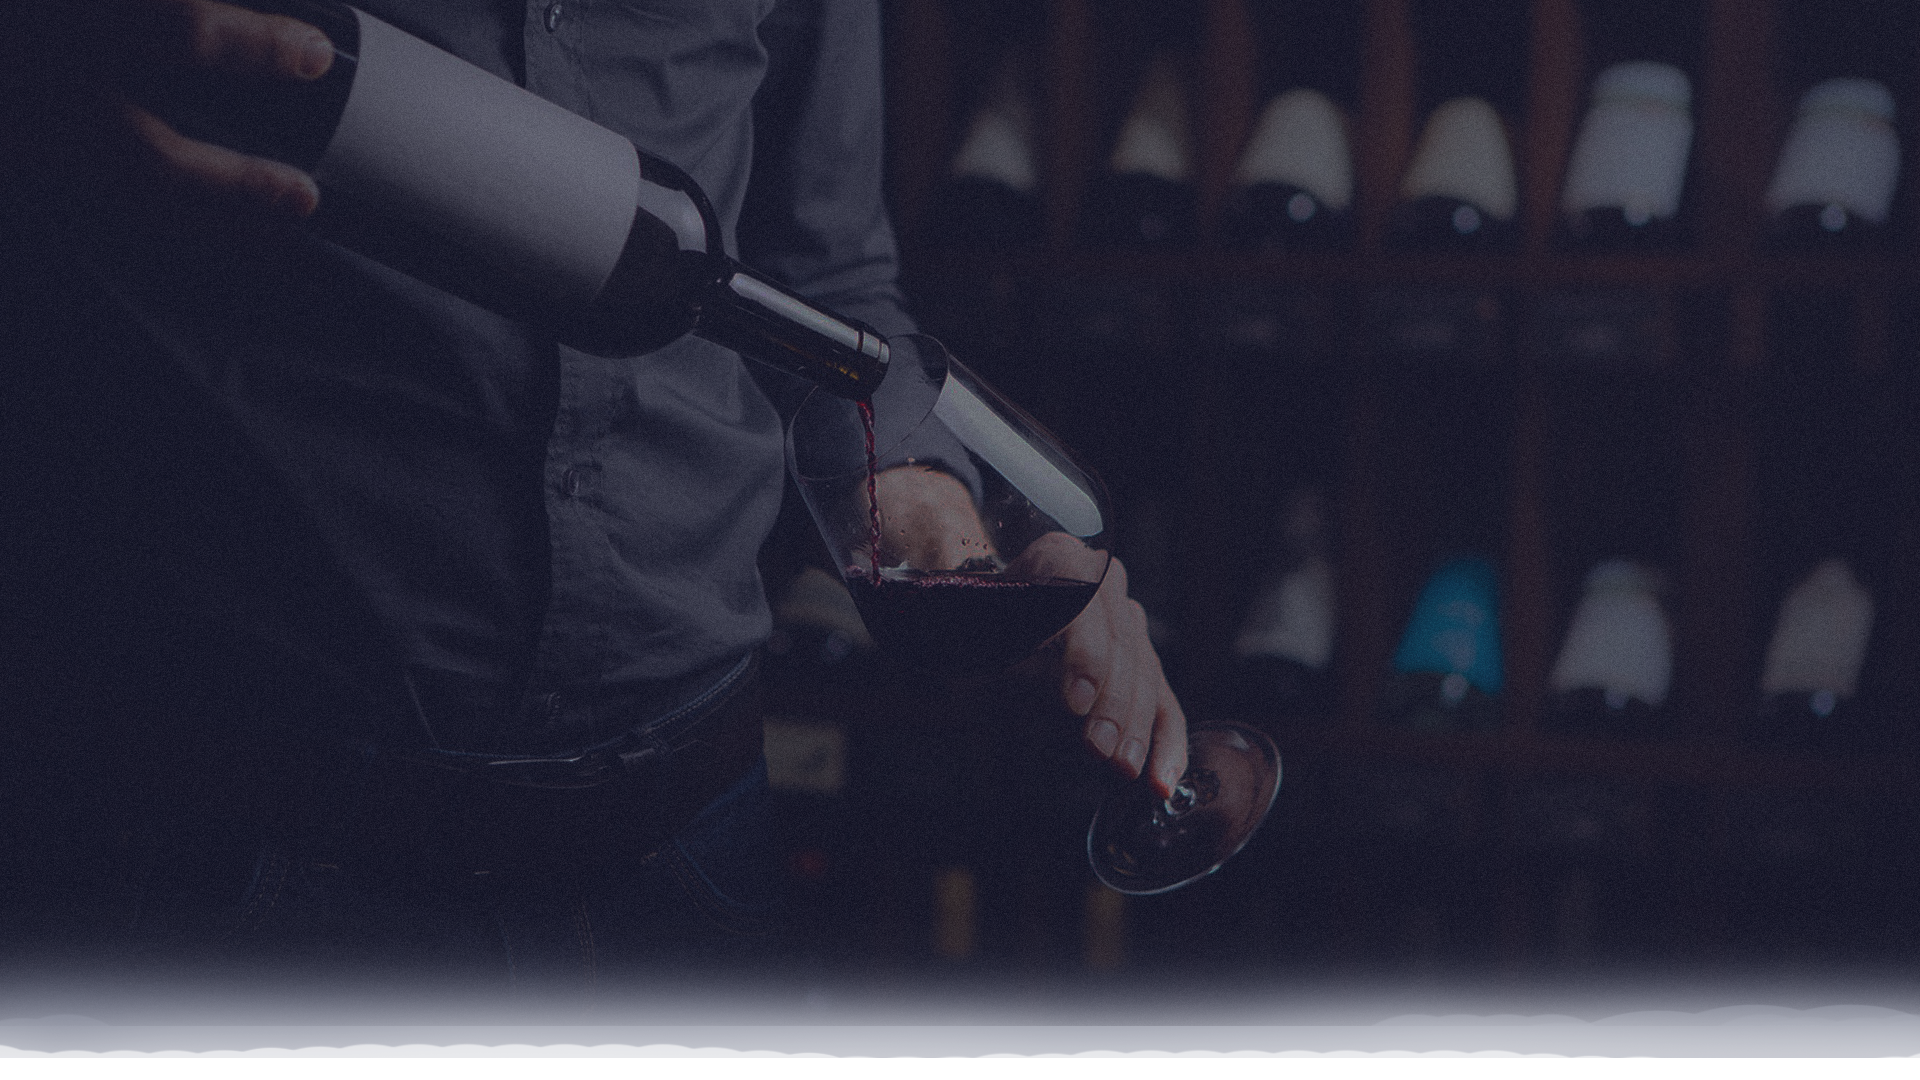
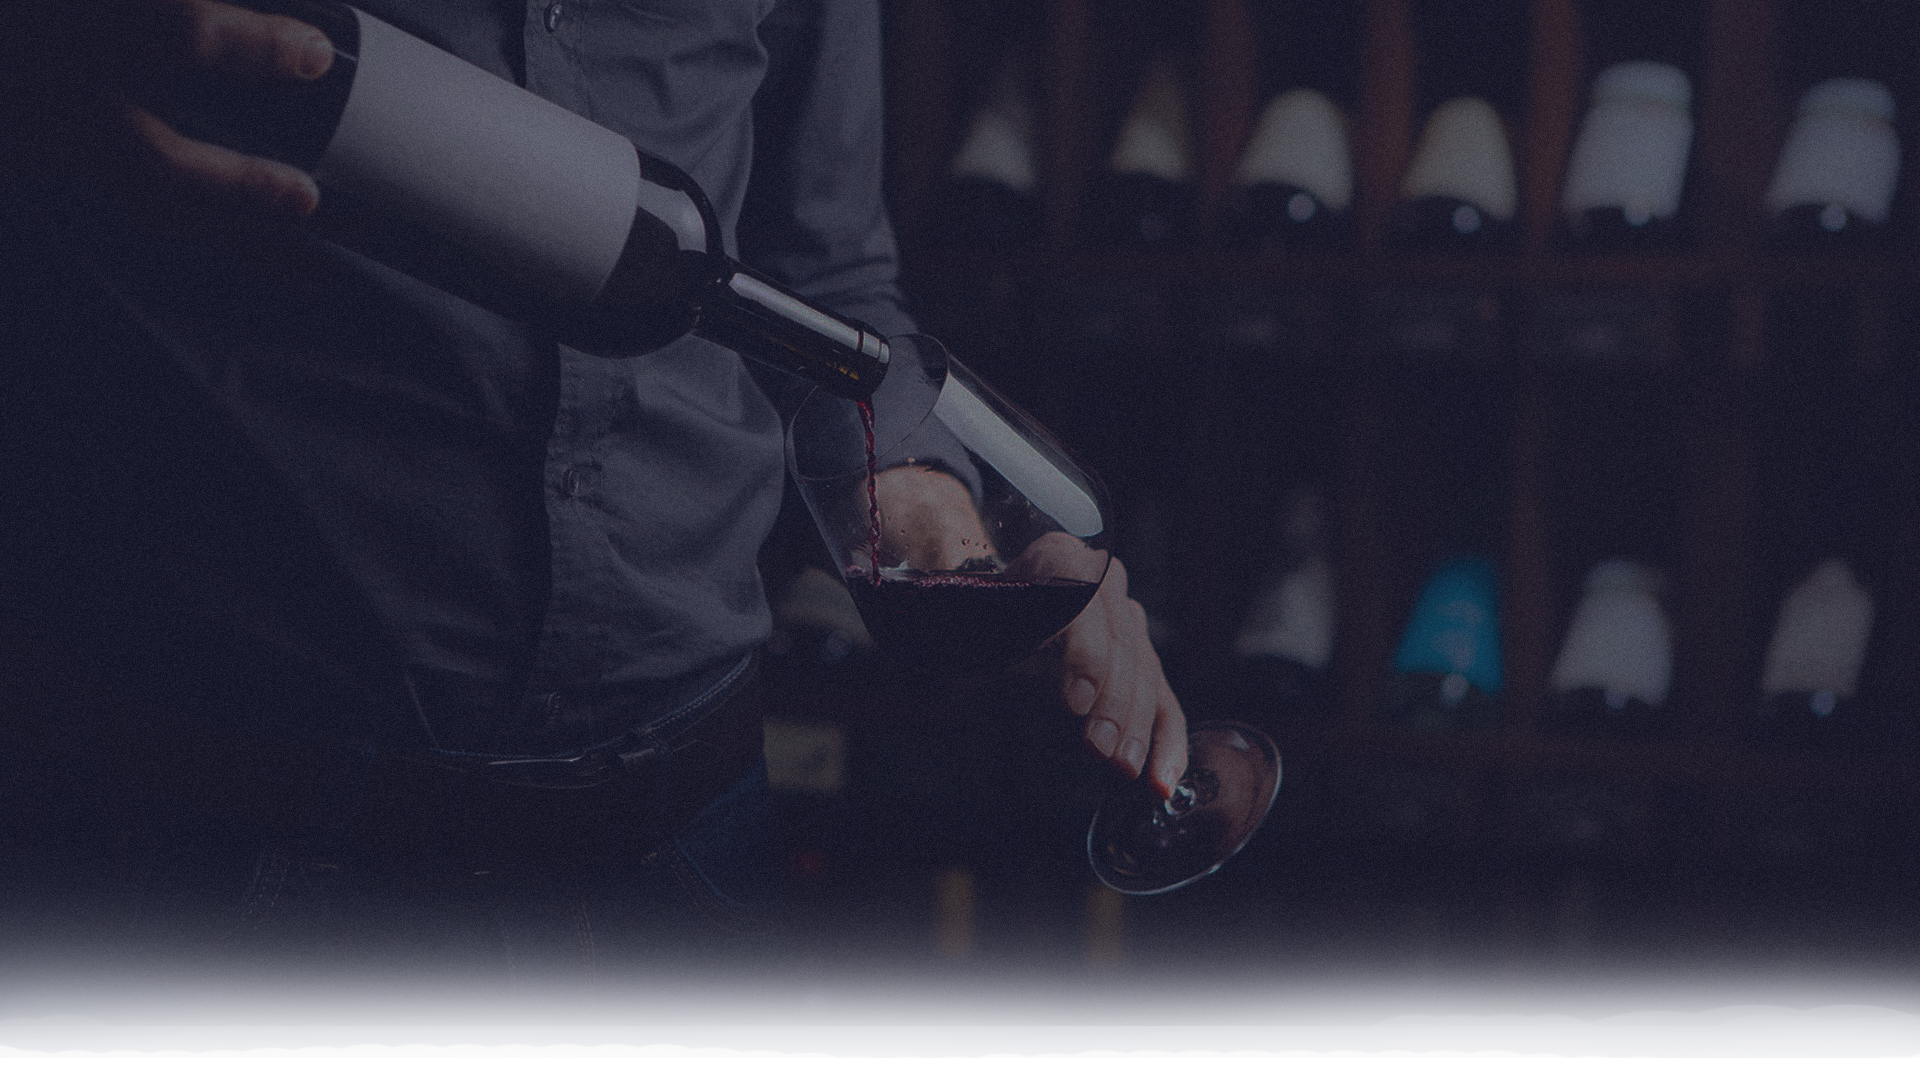
Adding smooth transition dependency and resolving brands component

Changed region(s): [[0.0, 0.8556, 1.0, 0.9778]]

diff --git a/src/pages/Home/brands.js b/src/pages/Home/brands.js
@@ -49,35 +49,35 @@ const brandWinesData = {
             id: 1,
             name: "Domaine Boisson 2019 'Pierre'",
             price: 399.85,
-            imageUrl: "https://marketwines.ca/wp-content/uploads/2023/08/Pierre-Boisson-Meursault-Mag.jpg",
+            imageUrl: "https://koreawinechallenge.com/wp-content/uploads/2023/08/Madam-Vueve-Point-Rully.png",
             location: "Burgundy, France",
         },
         {
             id: 2,
             name: "Domaine Boisson 2020 'Frere Et Soeur' Auxey-Duresses",
             price: 129.85,
-            imageUrl: "https://marketwines.ca/wp-content/uploads/2023/08/Pierre-Boisson-Meursault-Mag.jpg",
+            imageUrl: "https://koreawinechallenge.com/wp-content/uploads/2023/08/Madam-Vueve-Point-Rully.png",
             location: "Burgundy, France",
         },
         {
             id: 3,
             name: "Pont Neuf 2019 'Pont Marie' Blanc",
             price: 149.85,
-            imageUrl: "https://marketwines.ca/wp-content/uploads/2023/08/Pierre-Boisson-Meursault-Mag.jpg",
+            imageUrl: "https://koreawinechallenge.com/wp-content/uploads/2023/08/Madam-Vueve-Point-Rully.png",
             location: "California, USA",
         },
         {
             id: 4,
             name: "Castillo Ygay Gran Reserva 1986",
             price: 1058.75,
-            imageUrl: "https://marketwines.ca/wp-content/uploads/2023/08/Pierre-Boisson-Meursault-Mag.jpg",
+            imageUrl: "https://koreawinechallenge.com/wp-content/uploads/2023/08/Madam-Vueve-Point-Rully.png",
             location: "Valencia, Spain",
         },
         {
             id: 5,
             name: "Casa Del Bosque Chardonnay Gran Reserva",
             price: 499.85,
-            imageUrl: "https://marketwines.ca/wp-content/uploads/2023/08/Pierre-Boisson-Meursault-Mag.jpg",
+            imageUrl: "https://koreawinechallenge.com/wp-content/uploads/2023/08/Madam-Vueve-Point-Rully.png",
             location: "Chile",
         },
         // ...more white wines
@@ -87,49 +87,49 @@ const brandWinesData = {
             id: 1,
             name: "2018 Les Vignes D’Autrefois",
             price: 599.85,
-            imageUrl: "https://marketwines.ca/wp-content/uploads/2023/03/Laherte-2018.jpg",
+            imageUrl: "https://bluet.me/wp-content/uploads/2018/09/champ-btl-sm.png",
             location: "Champagne, France",
         },
         {
             id: 2,
             name: "Champagne Laherte Frères NV",
             price: 195.85,
-            imageUrl: "https://marketwines.ca/wp-content/uploads/2023/03/Laherte-2018.jpg",
+            imageUrl: "https://bluet.me/wp-content/uploads/2018/09/champ-btl-sm.png",
             location: "Champagne, France",
         },
         {
             id: 3,
             name: "Champagne JL Vergnon 2015",
             price: 136.95,
-            imageUrl: "https://marketwines.ca/wp-content/uploads/2023/03/Laherte-2018.jpg",
+            imageUrl: "https://bluet.me/wp-content/uploads/2018/09/champ-btl-sm.png",
             location: "Champagne, France",
         },
         {
             id: 4,
             name: "Laherte Frères 2018 Les Grandes'",
             price: 195.35,
-            imageUrl: "https://marketwines.ca/wp-content/uploads/2023/03/Laherte-2018.jpg",
+            imageUrl: "https://bluet.me/wp-content/uploads/2018/09/champ-btl-sm.png",
             location: "Champagne, France",
         },
         {
             id: 5,
             name: "Champagne Suenen NV Oiry Blanc De Blancs",
             price: 144.85,
-            imageUrl: "https://marketwines.ca/wp-content/uploads/2023/03/Laherte-2018.jpg",
+            imageUrl: "https://bluet.me/wp-content/uploads/2018/09/champ-btl-sm.png",
             location: "Champagne, France",
         },
         {
             id: 6,
             name: "Champagne Suenen NV C + C Blanc De Blancs",
             price: 599.85,
-            imageUrl: "https://marketwines.ca/wp-content/uploads/2023/03/Laherte-2018.jpg",
+            imageUrl: "https://bluet.me/wp-content/uploads/2018/09/champ-btl-sm.png",
             location: "Champagne, France",
         },
         {
             id: 7,
             name: "Laherte Frères",
             price: 199.85,
-            imageUrl: "https://marketwines.ca/wp-content/uploads/2023/03/Laherte-2018.jpg",
+            imageUrl: "https://bluet.me/wp-content/uploads/2018/09/champ-btl-sm.png",
             location: "Burgundy, France",
         },
         // ...more sparkling wines

diff --git a/src/styles/homepage.scss b/src/styles/homepage.scss
@@ -1,6 +1,7 @@
 // HOME PAGE
+
 .home-page-layout {
-  background-image: url(../img/wine-cellar.png);
+  background-image: url(../img/wine-cellar2.png);
   background-position: bottom;
   // background-repeat: no-repeat;
   // background-size: cover;
@@ -16,11 +17,13 @@
     width: fit-content;
     height: 100vh;
     text-align: center;
+    position: relative;
     display: flex;
     flex-direction: column;
     align-items: center;
     justify-content: center;
     margin: auto;
+    transition: transform 0.3s ease-in-out;
 
     a {
       font-family: "Ogg", sans-serif;
@@ -33,26 +36,33 @@
       text-decoration: none;
     }
 
-    p {
+    span {
       font-family: "Neillgates", sans-serif;
       position: absolute;
+      text-transform: none;
+      font-weight: 100;
       color: #9290ff;
       bottom: 290px;
-      right: 270px;
+      right: -100px;
       font-size: 58px;
       transform: rotate(-15deg);
+    }
+
+    &:hover {
+      transform: scale(1.05);
     }
   }
 }
 
 // Brand Wines Block
 
-// .wine-brands-component {
-
-// }
+.wine-carousel-wrapper {
+  position: relative;
+  min-height: 400px;
+}
 
 .wine-container {
-  height: 120vh;
+  height: 100vh;
   display: flex;
   flex-direction: column;
   justify-content: center;
@@ -82,12 +92,12 @@
   font-size: 22px;
   cursor: pointer;
   font-family: 'CaslonAntique', sans-serif;
-  transition: transform 0.3s ease-in-out;
+  transition: all 0.3s ease-in-out;
 
   .wine-img {
     margin: auto;
-    width: 200px;
-    /* height: 100px; */
+    transform: opacity 0.3s ease-in-out;
+    max-height: 200px;
   }
 
   &:hover {
@@ -96,7 +106,7 @@
 }
 
 .slider-carousel {
-  width: 60%;
+  width: 55%;
   margin: 10px auto;
   margin-bottom: 0;
   transition: transform 0.3s ease-in-out;
@@ -111,21 +121,18 @@
   color: rgb(212, 212, 212);
 }
 
-// .slick-track {
-//     margin-bott: 0;
-// }
-
 .arrow {
   font-size: 28px;
   position: absolute;
   cursor: pointer;
   z-index: 10;
+  color: rgb(212, 212, 212);
 
   svg {
     transition: color 500ms;
 
     &:hover {
-      color: red;
+      color: #7d7bf4;
     }
   }
 }

diff --git a/src/pages/Home/Home.jsx b/src/pages/Home/Home.jsx
@@ -1,28 +1,33 @@
 import React from "react";
 import { Parallax } from "react-scroll-parallax";
+import { Link } from "react-scroll";
 
 import "../../styles/homepage.scss";
 import "../../styles/main-style.scss";
+import "../../styles/animations.scss";
 
-import WineShop from "../../components/productCarousel/WineShop";
+import BrandsWineShop from "../../components/productCarousel/BrandsWineShop";
 import brandWinesData from "./brands";
 
 export default function Home() {
+
   return (
     <div className="home-page-layout">
       <Parallax speed={-25}>
         <div className="home-page-wrapper">
           <Parallax speed={-5}>
             <div className="page-banner">
-              <a href="#wine-carousel">Our Collection</a>
-              <p>Only premium brands</p>
+              <Link to="wine-carousel" spy={true} smooth={true} duration={500}>
+                <a href="wine-carousel">Our Collection</a>
+                <span>Only premium brands</span>
+              </Link>
             </div>
           </Parallax>
         </div>
       </Parallax>
       <Parallax speed={0}>
         <div className="wine-container" id="wine-carousel">
-          <WineShop
+          <BrandsWineShop
             className="brands-component"
             brandWinesData={brandWinesData}
           />

diff --git a/src/components/productCarousel/BrandsWineShop.jsx b/src/components/productCarousel/BrandsWineShop.jsx
@@ -1,0 +1,38 @@
+import React, { useState } from "react";
+import { CSSTransition, TransitionGroup } from "react-transition-group";
+import WineCarousel from "./BrandsWineCarousel";
+import CategoryMenu from "./CategoryMenu";
+// import brandWinesData from "../../pages/Home/brands";
+
+const BrandsWineShop = ({ brandWinesData }) => {
+  const [selectedCategory, setSelectedCategory] = useState("red");
+
+  const handleCategoryChange = (category) => {
+    setSelectedCategory(category);
+  };
+
+  const categories = Object.keys(brandWinesData);
+
+  return (
+    <div className="wine-brands-component">
+      <CategoryMenu
+        categories={categories}
+        activeCategory={selectedCategory}
+        onCategoryChange={handleCategoryChange}
+      />
+      <div className="wine-carousel-wrapper">
+        <TransitionGroup>
+          <CSSTransition key={selectedCategory} timeout={1000} classNames="fade">
+            {/* <h2>{selectedCategory.toUpperCase()} Wines</h2> */}
+            <WineCarousel
+              className=""
+              wines={brandWinesData[selectedCategory]}
+            />
+          </CSSTransition>
+        </TransitionGroup>
+      </div>
+    </div>
+  );
+};
+
+export default BrandsWineShop;

diff --git a/src/styles/animations.scss b/src/styles/animations.scss
@@ -1,0 +1,25 @@
+.fade-enter {
+    position: absolute;
+    opacity: 0;
+    width: 100%;
+    transform: translateY(20px);
+}
+
+.fade-enter-active {
+    opacity: 1;
+    transform: translateY(0);
+    transition: opacity 1s, transform 1s, all 1s;
+}
+
+.fade-exit {
+    position: absolute;
+    opacity: 1;
+    width: 100%;
+    transform: translateY(0);
+}
+
+.fade-exit-active {
+    opacity: 0;
+    transform: translateY(20px);
+    transition: opacity 1s, transform 1s, all 1s;
+}
